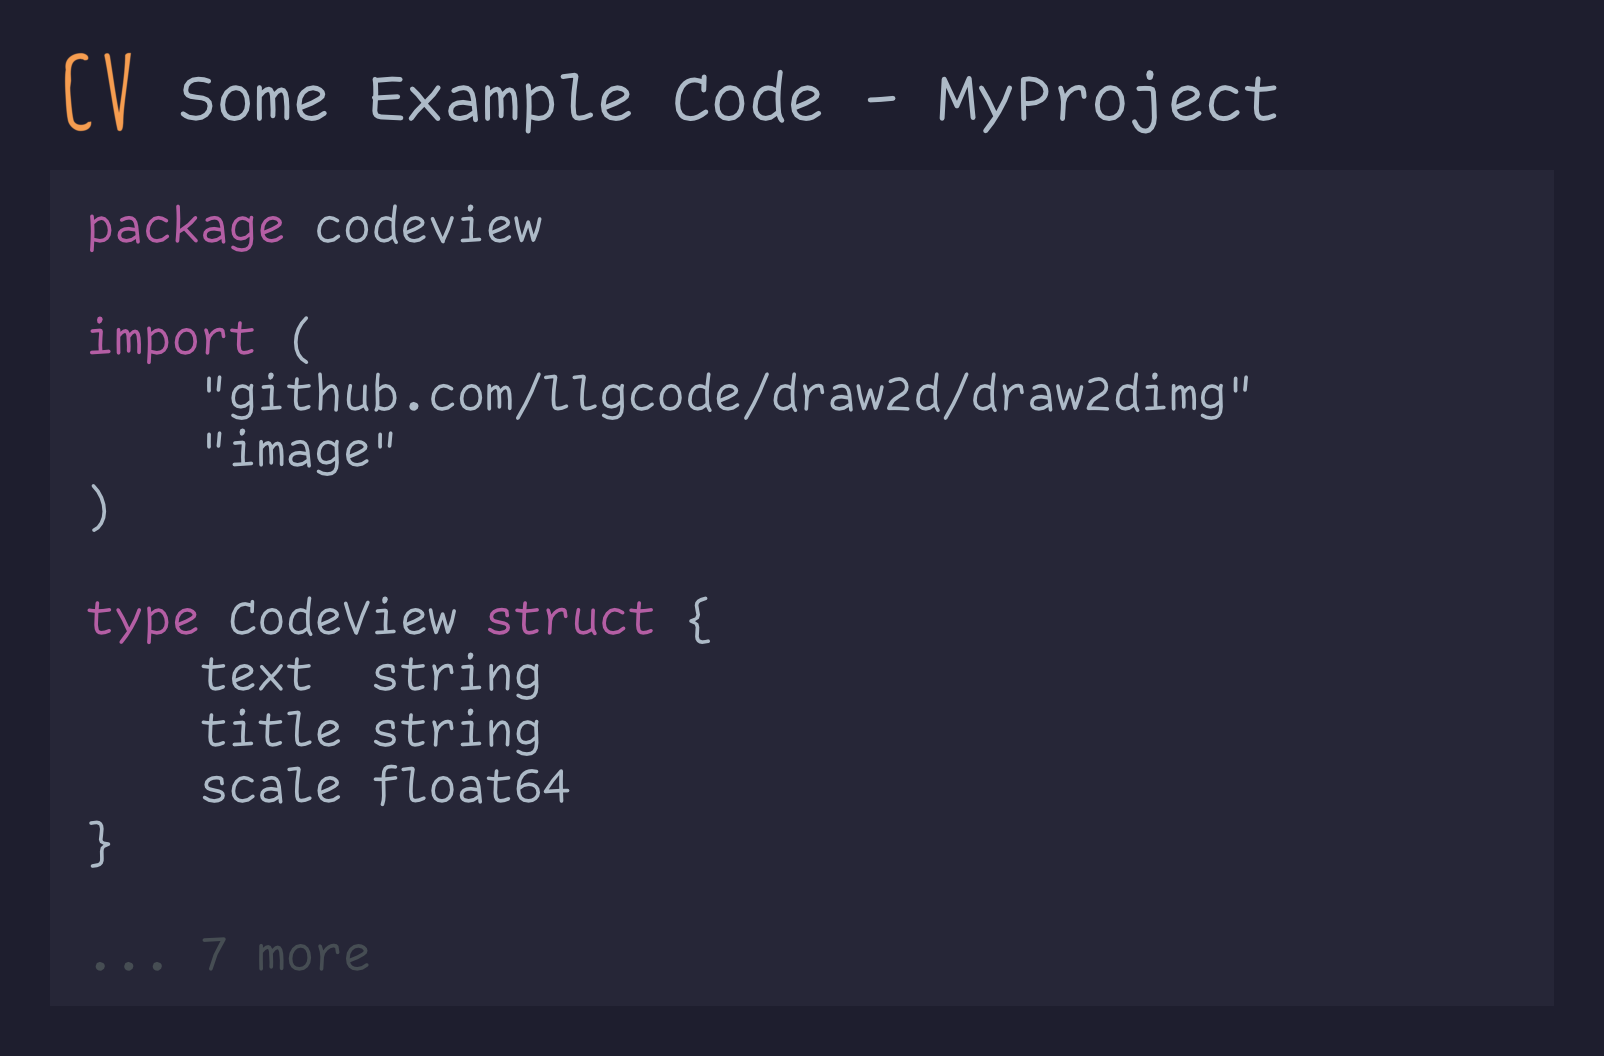
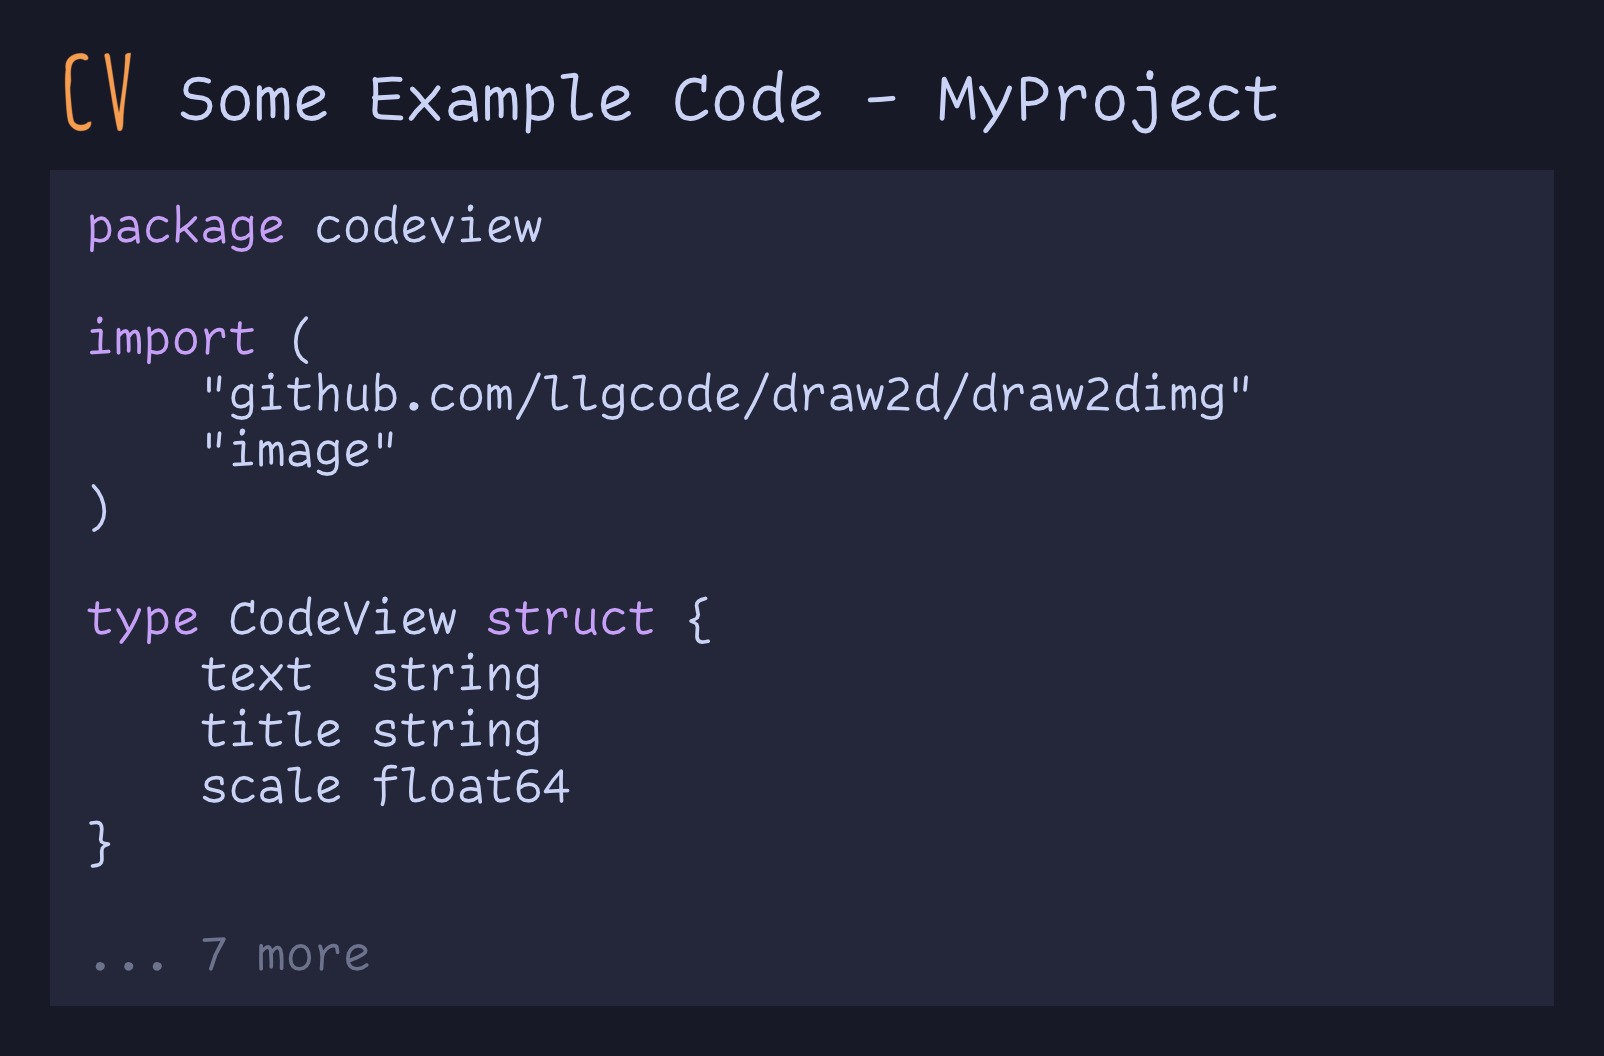
update example

diff --git a/themes.go b/themes.go
@@ -23,8 +23,8 @@ type Theme struct {
 
 func DefaultTheme() Theme {
 	return Theme{
-		Background: color.RGBA{R: 36, G: 39, B: 58, A: 255},
-		Foreground: color.RGBA{R: 54, G: 58, B: 79, A: 255},
+		Background: color.RGBA{R: 24, G: 25, B: 38, A: 255},
+		Foreground: color.RGBA{R: 36, G: 39, B: 58, A: 255},
 
 		Default: color.RGBA{R: 202, G: 211, B: 245, A: 255},
 		Token:   color.RGBA{R: 198, G: 160, B: 246, A: 255},